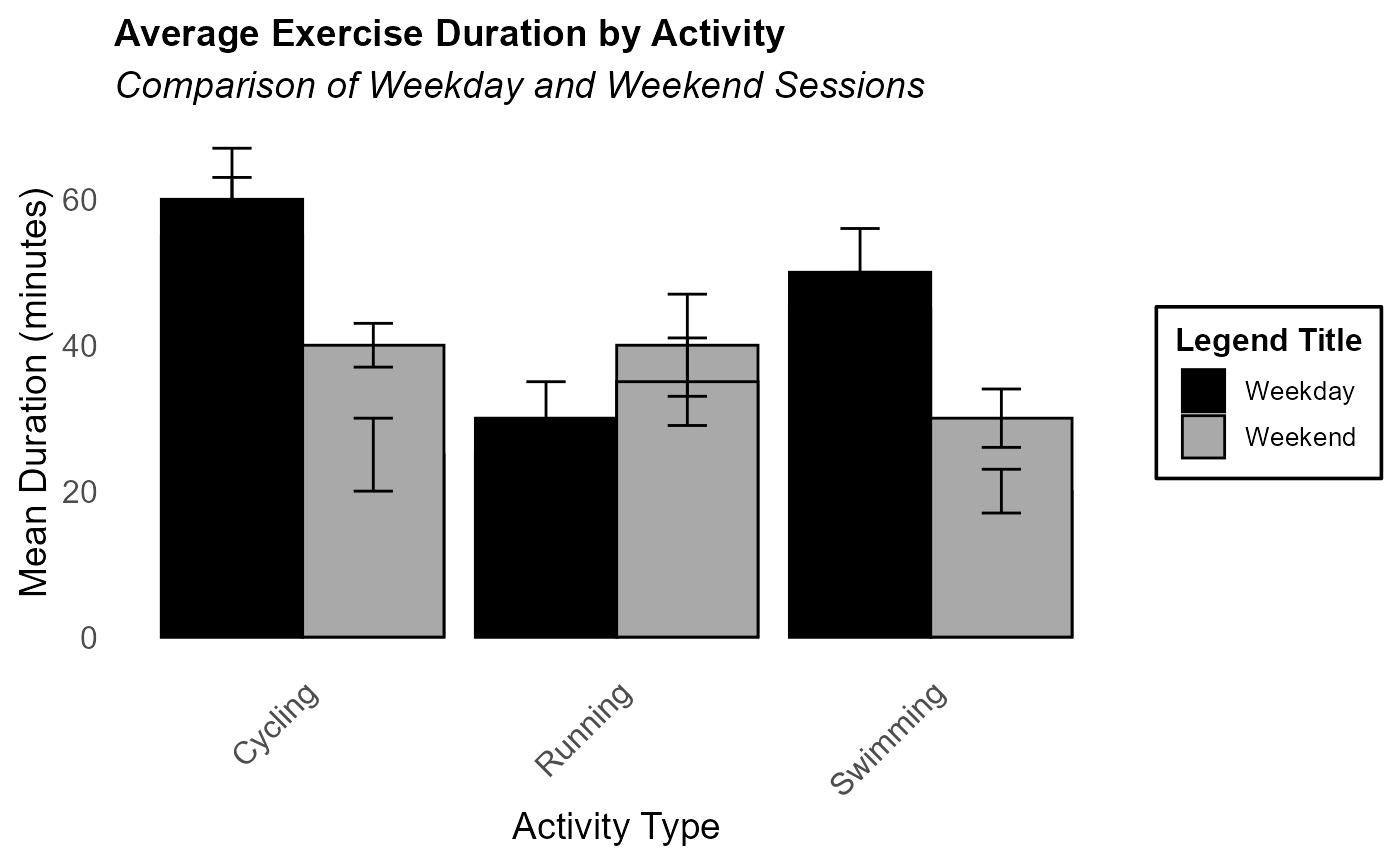
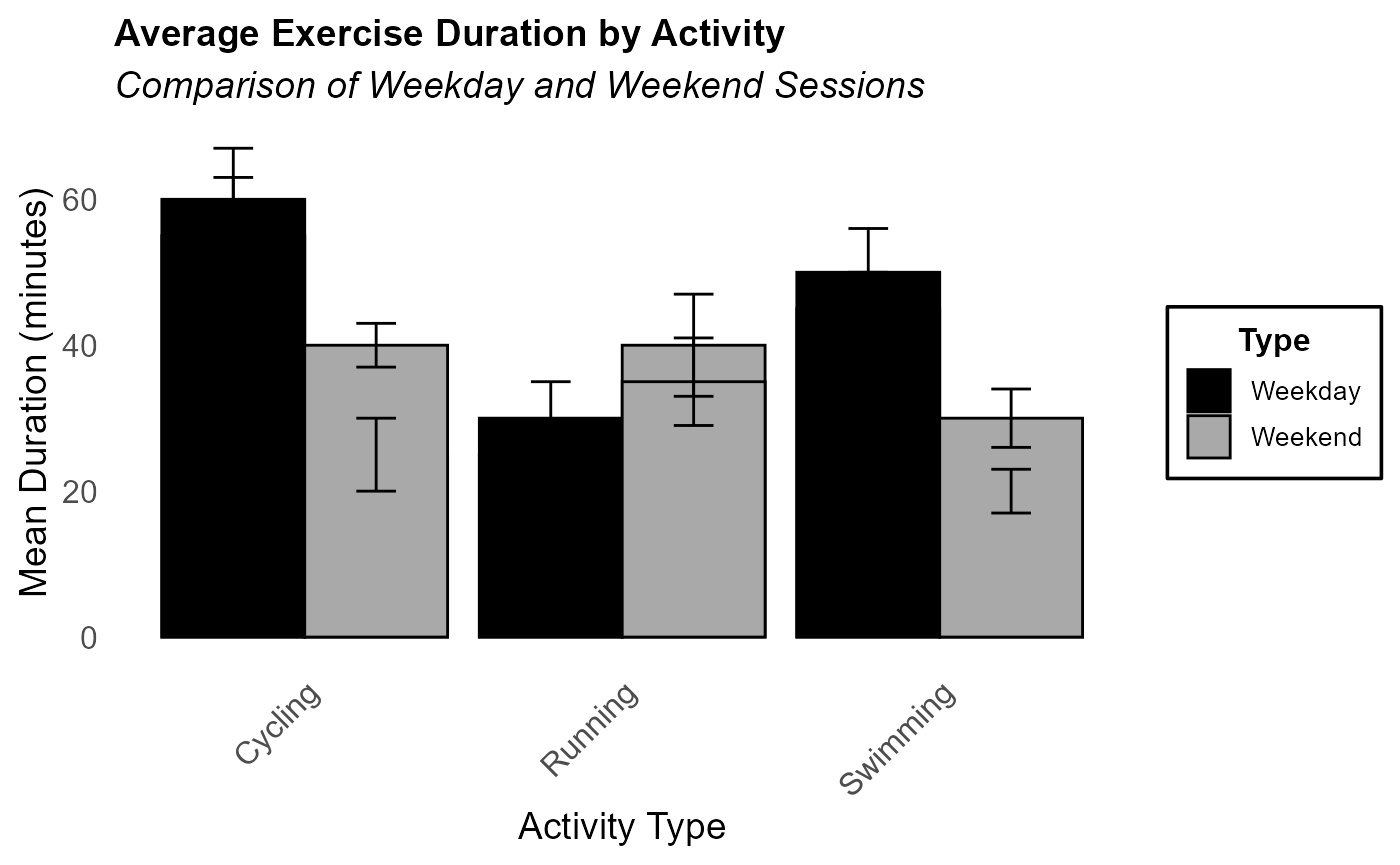
last minute fix

diff --git a/docs/articles/SciViz.html b/docs/articles/SciViz.html
@@ -132,7 +132,8 @@ suitable for a publication.</p>
 <span>   subtitle <span class="op">=</span> <span class="st">"Comparison of Weekday and Weekend Sessions"</span>,</span>
 <span>   x_label <span class="op">=</span> <span class="st">"Activity Type"</span>,</span>
 <span>   y_label <span class="op">=</span> <span class="st">"Mean Duration (minutes)"</span>,</span>
-<span>   bar_color <span class="op">=</span> <span class="fu"><a href="https://rdrr.io/r/base/c.html" class="external-link">c</a></span><span class="op">(</span><span class="st">"black"</span>, <span class="st">"darkgrey"</span><span class="op">)</span>  <span class="co"># Different custom colors for groups</span></span>
+<span>   bar_color <span class="op">=</span> <span class="fu"><a href="https://rdrr.io/r/base/c.html" class="external-link">c</a></span><span class="op">(</span><span class="st">"black"</span>, <span class="st">"darkgrey"</span><span class="op">)</span>,  <span class="co"># Different custom colors for groups</span></span>
+<span>   legend_title <span class="op">=</span> <span class="st">"Type"</span></span>
 <span> <span class="op">)</span></span></code></pre></div>
 <p><img src="SciViz_files/figure-html/unnamed-chunk-4-1.png" width="700"></p>
 <p>This example uses an imbalanced dataset to illustrate that the
